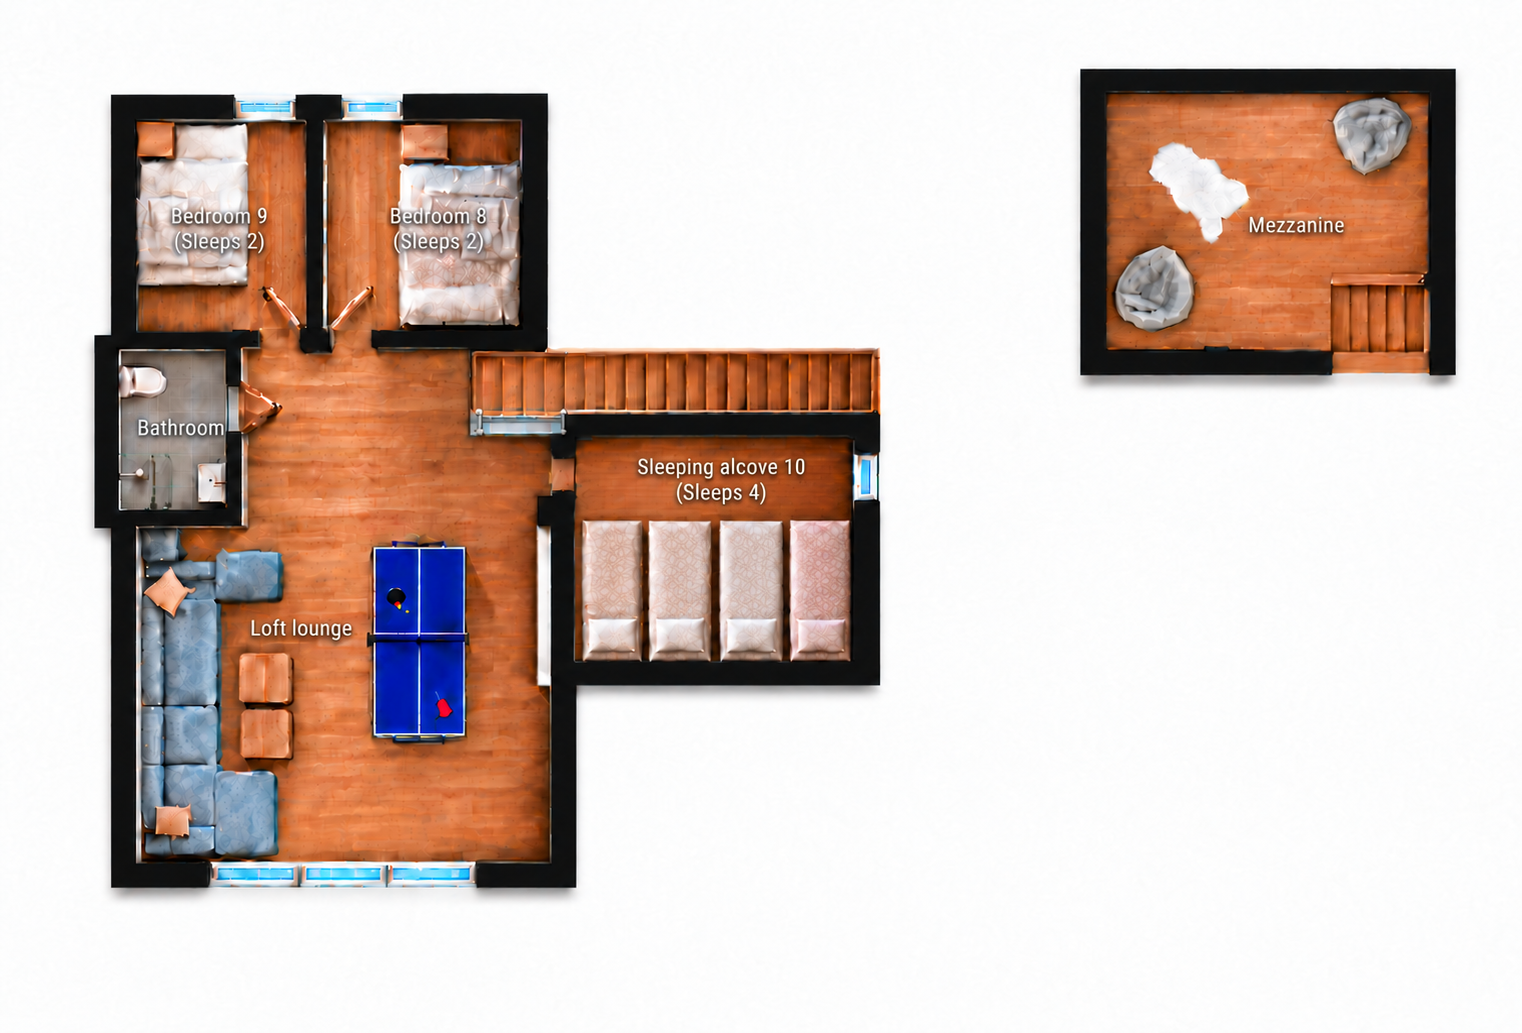
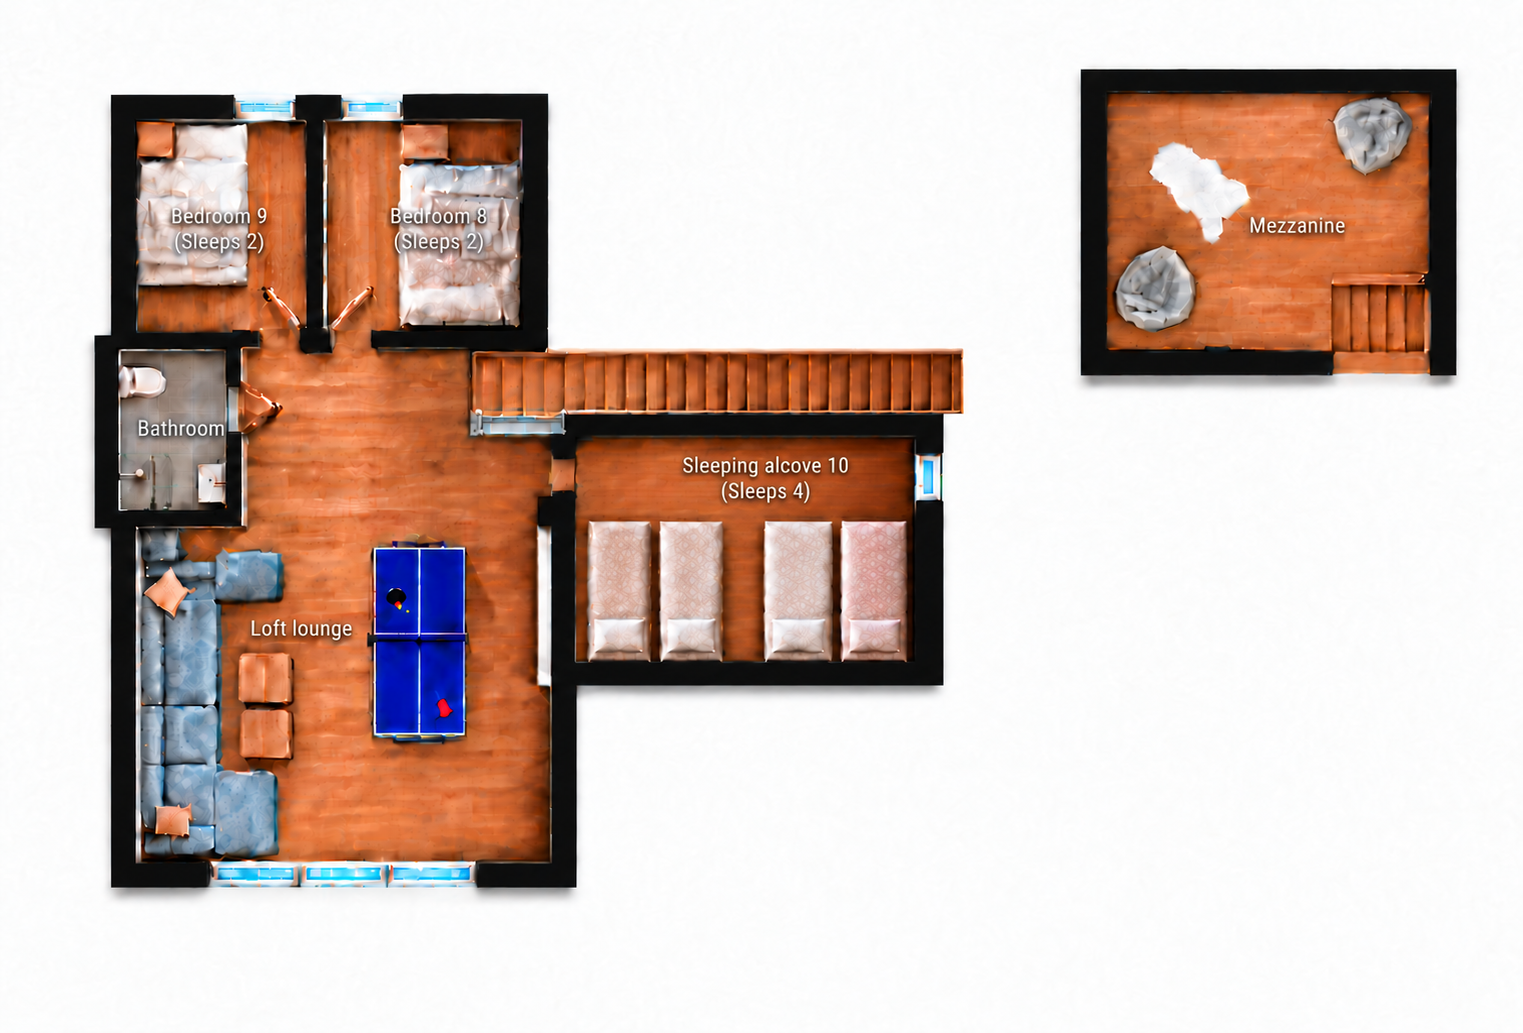
Refine floor plan details and add compact labelled footer contacts

diff --git a/src/app/globals.css b/src/app/globals.css
@@ -1167,7 +1167,7 @@ footer p { margin: 15px 0 0; font-size: 12px; }
 .retreat-detail-footer a { color: inherit; }
 .retreat-footer-booking a { display: inline-flex; align-items: center; min-height: 54px; margin-top: 2rem; border: 1px solid #dcc092; padding: 0 1.5rem; color: #17202c; background: #dcc092; font-size: .7rem; font-weight: 800; letter-spacing: .08em; }
 .retreat-footer-contact { display: grid; grid-template-columns: max-content; align-content: start; justify-items: stretch; }
-.retreat-footer-contact a { margin: 0 0 .2rem; border-bottom: 1px solid rgba(220,192,146,.45); padding-bottom: .15rem; font-family: ui-monospace, "SFMono-Regular", Consolas, monospace; font-size: clamp(1.25rem, 1.65vw, 1.75rem); font-variant-numeric: tabular-nums; text-align: left; white-space: nowrap; }
+.retreat-footer-contact a { margin: 0 0 .4rem; border-bottom: 1px solid rgba(220,192,146,.45); padding-bottom: .15rem; font-family: Arial, Helvetica, sans-serif; font-size: clamp(.9rem, 1.1vw, 1rem); font-weight: 400; line-height: 1.5; text-align: left; white-space: nowrap; }
 .retreat-cabin-ski-access { display: grid; grid-template-columns: .85fr 1.15fr; gap: clamp(2rem, 6vw, 7rem); align-items: end; padding: clamp(5rem, 8vw, 8rem) clamp(1.4rem, 6vw, 7rem); background: #e1c9a7; }
 .retreat-cabin-ski-access > div > p { margin: 0 0 1.3rem; color: #8a6036; font-size: .65rem; font-weight: 800; letter-spacing: .14em; }
 .retreat-cabin-ski-access h2 { margin: 0; font-size: clamp(3.4rem, 6vw, 7rem); font-weight: 500; line-height: .94; letter-spacing: -.06em; }

diff --git a/src/components/ConceptPages.tsx b/src/components/ConceptPages.tsx
@@ -500,8 +500,9 @@ export function RetreatBookingFooter({ language, omitHeadingPeriod = false }: { 
       </div>
       <div className="retreat-footer-contact">
         <p>{language === "nb" ? "KONTAKT OSS" : "CONTACT US"}</p>
-        <a href="tel:+4797816981">+47 978 16 981</a>
-        <a href="tel:+4796878888">+47 968 78 888</a>
+        <a href="tel:+4797816981">Tel.: +47 978 16 981</a>
+        <a href="tel:+4796878888">Tel.: +47 968 78 888</a>
+        <a href="mailto:info@turucrown.no">{language === "nb" ? "E-post" : "Email"}: info@turucrown.no</a>
       </div>
     </section>
   );

diff --git a/docs/floor-plans.md b/docs/floor-plans.md
@@ -1,5 +1,61 @@
 # Three floor plans
 
+## Wider loft alcove with a gap between mattress pairs, 31 October 2026
+
+Owner reference: C:/Users/kalaj/AppData/Local/Temp/codex-clipboard-cf26df3a-1aad-47bd-939d-c948bbd4f635.png. Built-in imagegen edit mode from the committed Norwegian and English loft plans at ffb1ad2. Alcove 10 widened slightly to the right, with visible wooden floor between mattresses two and three. Four mattresses retain matching lengths and aligned ends. Other loft rooms and the detached mezzanine retained. Initial drafts were too wide; final local correction reduced the gap and alcove extension. Selected outputs in C:/Users/kalaj/.codex/generated_images/01a0dca7-09e8-7432-9c4d-03c13b499591/: exec-4d0281ef-6740-43c8-8112-f0a0affb5228.png and exec-5159f280-f09e-46d1-8e17-4266232cb713.png. Copied unchanged to public/images/floor-plan-loft.png and public/images/floor-plan-loft-en.png without additional resizing/recompression. Both images reviewed, including all four mattresses, labels and retained rooms.
+
+### alcoveGapNbPrompt
+
+```text
+Use case: precise-object-edit. Edit target is image 1, an existing detailed top-down loft floor plan. Image 2 is only the user's red markup reference, never include the red marks. ONLY widen sleeping alcove 10 slightly to the RIGHT by about 30 pixels at this native 1523px canvas (roughly half a mattress width). Move its right exterior wall and small right window right by this amount, extend its floor and the stair run directly above consistently. Keep the alcove LEFT wall, bottom wall height and stair landing fixed. Keep all FOUR existing mattresses at their exact present WIDTH, LENGTH and vertical position, aligned same top/bottom edges, pillows at BOTTOM wall. Keep mattresses 1 and 2 in place. Shift mattresses 3 and 4 right together to create a visible clear wooden FLOOR GAP between mattress 2 and mattress 3, about 25 pixels (roughly 40% mattress width). Exactly four mattresses, arranged two pairs. Preserve the rest of this image precisely: two bedrooms, all beds and labels, bathroom, sofa, both coffee tables, ping pong table, doors, stairs/railing except slight right extension, all other windows, detached upper-right mezzanine, materials, textures, lighting, white canvas, layout and resolution. NO other room changes, no crop, no global resize or restyling. Keep all NORWEGIAN labels exactly as supplied including Alkove 10 (4 soveplasser), Loftstua, Hems.
+```
+
+### alcoveGapEnPrompt
+
+```text
+Use case: precise-object-edit. Edit target is image 1, an existing detailed top-down loft floor plan. Image 2 is only the user's red markup reference, never include the red marks. ONLY widen sleeping alcove 10 slightly to the RIGHT by about 30 pixels at this native 1523px canvas (roughly half a mattress width). Move its right exterior wall and small right window right by this amount, extend its floor and the stair run directly above consistently. Keep the alcove LEFT wall, bottom wall height and stair landing fixed. Keep all FOUR existing mattresses at their exact present WIDTH, LENGTH and vertical position, aligned same top/bottom edges, pillows at BOTTOM wall. Keep mattresses 1 and 2 in place. Shift mattresses 3 and 4 right together to create a visible clear wooden FLOOR GAP between mattress 2 and mattress 3, about 25 pixels (roughly 40% mattress width). Exactly four mattresses, arranged two pairs. Preserve the rest of this image precisely: two bedrooms, all beds and labels, bathroom, sofa, both coffee tables, ping pong table, doors, stairs/railing except slight right extension, all other windows, detached upper-right mezzanine, materials, textures, lighting, white canvas, layout and resolution. NO other room changes, no crop, no global resize or restyling. Keep all ENGLISH labels exactly as supplied including Sleeping alcove 10 (Sleeps 4), Loft lounge, Mezzanine.
+```
+
+### alcoveGapFinalNbPrompt
+
+```text
+Precise LOCAL correction of only right Alcove 10 extension: draft widened it too much. Reduce the clear wooden gap between mattress TWO and THREE to just 30 pixels at this canvas scale (about HALF ONE mattress width), by shifting mattress3+4 and the alcove RIGHT wall/window LEFT together. Final exterior right wall should be at x920 (currently around970-990), keeping LEFT wall x555 fixed. Extend/shorten upper stair end to same right edge. Keep all FOUR mattress exact width/length, alignedtop andbottom, pillowsatbottom, sameypositions. Left pair remainsx583..712. Newrightpairshouldbeaboutx742..875, withsmallgapbetweenitsmattresses. Only a modest alcove widening versus original rightwall880, finalrightwall920. Everything ELSE in whole plan is LOCKED unchanged, all rooms, labels, detachedmezzanine, sofa/tables/pingpong,bathroom, windows, textures, materials, canvasresolution. No newobjects,no crop,no globalresize. Preserve current language text exactly.
+```
+
+### alcoveGapFinalEnPrompt
+
+```text
+Precise LOCAL correction of only right Alcove 10 extension: draft widened it too much. Reduce the clear wooden gap between mattress TWO and THREE to just 30 pixels at this canvas scale (about HALF ONE mattress width), by shifting mattress3+4 and the alcove RIGHT wall/window LEFT together. Final exterior right wall should be at x920 (currently around970-990), keeping LEFT wall x555 fixed. Extend/shorten upper stair end to same right edge. Keep all FOUR mattress exact width/length, alignedtop andbottom, pillowsatbottom, sameypositions. Left pair remainsx583..712. Newrightpairshouldbeaboutx742..875, withsmallgapbetweenitsmattresses. Only a modest alcove widening versus original rightwall880, finalrightwall920. Everything ELSE in whole plan is LOCKED unchanged, all rooms, labels, detachedmezzanine, sofa/tables/pingpong,bathroom, windows, textures, materials, canvasresolution. No newobjects,no crop,no globalresize. Preserve current language text exactly.
+```
+
+## Narrower right wing, clearer fixtures and wider Bedroom 3, 31 October 2026
+
+Built-in imagegen edit mode from lower-floor assets at ffb1ad2. References: codex-clipboard-247a9151-5784-4975-9eb2-ddf73a689483.png, codex-clipboard-c7b8bc9e-ff99-4fd9-8df6-42f102bfdebd.png and codex-clipboard-02976ecc-3d0a-4e30-a3f6-d4d7b6ba563b.png in C:/Users/kalaj/AppData/Local/Temp/. Right kitchen/dining wing made a little narrower, Bedroom 3 double bed a little wider, ceramic fixture details defined. Removed the short extra door piece at the sauna glass right post; retained the actual diagonal sauna door and glass partition. Main floor unchanged. Selected outputs in C:/Users/kalaj/.codex/generated_images/01a0dca7-09e8-7432-9c4d-03c13b499591/: exec-358d5595-14b7-44a8-893f-134ce9b2ddc6.png and exec-88dcbdc0-b5c4-408c-b6c5-b031fb829536.png, copied unchanged to public/images/floor-plan-lower.png and public/images/floor-plan-lower-en.png. Native resolution retained, no extra resizing or recompression. Visual inspection of both language assets; connected production CI checked before final publication confirmation.
+
+### rightBedFixturesNbPrompt
+
+```text
+Precise architectural floorplan edit. IMAGE1 is current Norwegian lowerfloor EDIT TARGET. IMAGE2 marks RIGHTwing to narrow; IMAGE3 marks Bedroom3 bed to widen; IMAGE4 marks ONEextra doorleaf to remove beside sauna. Make ONLY these edits: A) RIGHT kitchen/diningwing ONLY about8percent NARROWER horizontally (~35–40px fromcurrent~460pxwidth). KeepitsLEFTboundaryfixednearx910, moveRIGHTouterwallleft35–40px; sameverticalDEPTH. Keepallkitchencabinets/island/table/26chairs(12eachlongside+1eachend)/fireplace/stair/storagecountandDESIGNS; minimalrepositioninginsidewing, no furniture squeezing. Keep THREEfrontwindowgroups,sides,slimframes,adjustglassspansto narrowerfacade. No furtherchanges to centralBedrooms1/2/3roomwidths orleftwing. B) Bedroom3doublebed currentlynarrowwidth~62px: make it a LITTLEWIDER by~10–12px to~74px, LEFTedgeanchoredsameplace, extendRIGHTonly. Same LENGTH,yposition,north-southorientation,TWOpillowsatTOP,footgap,twosleepers,whitebeddingdesign. Otherbedsunchanged. C) Improvecrispness/realismof EXISTING WHITEWASHBASINSandTOILETS acrossfloorplan:clearlydefinedceramicbasins,bowls,seatrims,cisterns,faucets,softrealisticshadows; sameexactcounts,locations,sizesandorientations. KEEPsmallToalettRIGHTwallSINK andtoiletattop. No newfixtures. D) RemoveONLYtheSHORTEXTRAdoorleaf/strayangledpiececircledinIMAGE4, immediatelyatRIGHTENDofsaunafrontglasspartition (aroundx300,y600 onfullplan). PRESERVE the sauna's FULLblueclearglassfrontwall/fittings AND its REAL entryGLASSDOOR, the LONGDIAGONALdoorpanelopeningfromcentralpartofglassfront (aroundx245,y575towardx285,y615). Ownerexplicitly saysSAUNADOORANDGLASSWALLMUSTSTAY. Removeonlyextrasmallleafbeyondrightpost, notthemainlongdiagonalglassdoor. Keepbathroom-to-terracedoor atx400,y600 andallotherdoors unchanged. Allotherwalls/rooms/windows/fixtures/wardrobeabsence/labels(fontsizeandNorwegianwording)/materialsandfullcanvasresolutionUNCHANGED. Crispdetailedarchitecturalrender,no redmarks,crop,globalresize,newrooms orotheredits.
+```
+
+### rightBedFixturesRepairNbPrompt
+
+```text
+Precise geometry repair. IMAGE1 is EDIT TARGET draft with desired widerBedroom3bed, clearerfixtures,removedextrasmallsaunadoorleaf,andnarrowerRIGHTwing. IMAGE2 ORIGINAL is absolute authority for CENTRALandLEFTroomgeometry. Draft1 wrongly EXPANDEDcentralBedrooms1–3/corridor by~50px whennarrowingrightwing. RESTORE allcentralroomwidths/partitions/corridor/terrace andLEFTstaircase to EXACT IMAGE2 dimensions/positions. Bedroom3/2/1 rowRIGHTedge mustreturntoaroundx910, notdraft970; LEFTedgex435unchanged. Keep the bed3wider butnotexcessive: leftx441,rightx515(~74px),sametop/foot/2pillows. Preservebathroom/Toalett/Gang geometryofIMAGE2 including RIGHTwallwashbasin insideToalett,nowardrobe. RIGHTwing should RETAIN its draft1NARROWwidth~410px but be RIGIDLYSHIFTEDLEFT~60px, soitsLEFTfrontboundaryx910,RIGHTouterwallx1320. Notx970..1380. SAMEDEPTH,unchangedtable/chair/kitchen/island/fireplace/stair/windowdesignsfromdraft1,26chairs. AllLEFTwingfromIMAGE2unchanged. Preserve draft1improvedfixtureclarity andremovedEXTRAshortdoorpieceats aunaglassrightpost, retain MAINlongdiagonalSAUNADOORANDwholeglasspartition. Keep bathroom-to-terracedoor. ALLlabelsNorwegianfont/size,fullcanvasresolution,sharpmaterials unchanged. No newedits/globalresize/crop. ONLY restorecentral/leftgeometrythatwasaccidentallybroadened, andshiftalready-narrowrightwingLEFTtomatchoriginalconnection.
+```
+
+### rightFixturesFinalNbPrompt
+
+```text
+Edit ONLY surface detail of EXISTING washbasins and toilets in supplied final lowerfloor plan: make each clear realistic top-down3Dceramicfixture with defined basindepression/drain/faucet, toiletinnerbowlopening/seatrim/cistern, softshadows, ratherthan featurelesswhiteblobs. Preserve EXACTfixtureCOUNTS,positions,SIZESandorientations, especiallysmallSINKonToalettRIGHTwall. Do not add/remove/movefixtures oranythingelse. Keep allcurrentplan geometry,rooms,walls,doors,stairs,windows,narrowerRIGHTwing,26chairs/table/kitchen/island/fireplace, widerBedroom3bedwith2pillowsTOPandfootgap,removedextraSHORTdooratglasspost,realSAUNADOORandGLASSPARTITION,terrace,allotherpixels/materials/fullcanvasresolution identical. No crop/globalresize/newobjects. Keep allNORWEGIAN labels verbatim, samefont/size/positions. OnlydefinedceramicfixtureDETAIL.
+```
+
+### rightFixturesFinalEnPrompt
+
+```text
+Edit ONLY surface detail of EXISTING washbasins and toilets in supplied final lowerfloor plan: make each clear realistic top-down3Dceramicfixture with defined basindepression/drain/faucet, toiletinnerbowlopening/seatrim/cistern, softshadows, ratherthan featurelesswhiteblobs. Preserve EXACTfixtureCOUNTS,positions,SIZESandorientations, especiallysmallSINKonToalettRIGHTwall. Do not add/remove/movefixtures oranythingelse. Keep allcurrentplan geometry,rooms,walls,doors,stairs,windows,narrowerRIGHTwing,26chairs/table/kitchen/island/fireplace, widerBedroom3bedwith2pillowsTOPandfootgap,removedextraSHORTdooratglasspost,realSAUNADOORandGLASSPARTITION,terrace,allotherpixels/materials/fullcanvasresolution identical. No crop/globalresize/newobjects. Additionallytranslate Norwegianlabels cleanlytoEnglish, fullyeraseoldletteringandrestorebackgroundfirstsoNOghostletters. Tekniskrom->Utility room;bothBod->Storage;bothBad->Bathroom;Toalett->Toilet;Gang->Hallway;Terrasse->Terrace;Saunaunchanged. Bedrooms two linesexactly: Bedroom 1 (Sleeps 3),Bedroom 2 (Sleeps 3),Bedroom 3 (Sleeps 2),Bedroom 4 (Sleeps 4),Bedroom 5 (Sleeps 4). Samewhitefont,size,shadow,labelcenters,properwordspaces,onlyonepairparentheses. Nootheredits.
+```
+
 ## Additional central AND right-wing narrowing, 31 October 2026
 
 Owner's latest redcircle reference C:/Users/kalaj/AppData/Local/Temp/codex-clipboard-27e57b25-d246-4d59-aa49-f848bb25e216.png explicitly requests the rightwing itself be narrower as well as centralBedrooms1–3/Gang/corridor. This supersedes preceding translation-only rightwing adjustment. Used current Norwegian drawing with restoredToalettRIGHT-wall washbasin (exec-7a2dd0a8-ef39-4d5e-836e-abbc4eed0df4.png) as primary source; retained aligned loft mattresses from preceding section. Built-in imagegen edit mode. First candidate exec-613910fb-8b6a-46bd-875a-b4768df6bc83.png narrowed rightwing; followup exec-f167a80a-0d9f-4552-952d-e2d3727d419a.png further shortens centralrow. English textlocalisation exec-1ffa3759-b169-4d4c-b38a-a31e5d39ca7a.png from selectedNorwegian. All outputs in C:/Users/kalaj/.codex/generated_images/01a0dca7-09e8-7432-9c4d-03c13b499591/.

diff --git a/README.md b/README.md
@@ -4,6 +4,8 @@ A Norwegian and English presentation website for the Turu Crown rental property
 on Turufjell. The direct booking preview lets guests request dates and extras,
 then discuss their stay with the owner in a private conversation. The owner
 approves reservations manually; there is no payment collection.
+The shared footer lists both phone numbers and info@turucrown.no under Contact us,
+with compact labelled phone and email links in both languages.
 Rent starts at NOK 15,000 per day for up to 24 guests. Each guest above 24
 adds NOK 750 per day, up to 29 guests. Easter 22–30 March 2027 starts at
 NOK 16,000 per day with the same extra-guest rule. Mandatory final cleaning is
